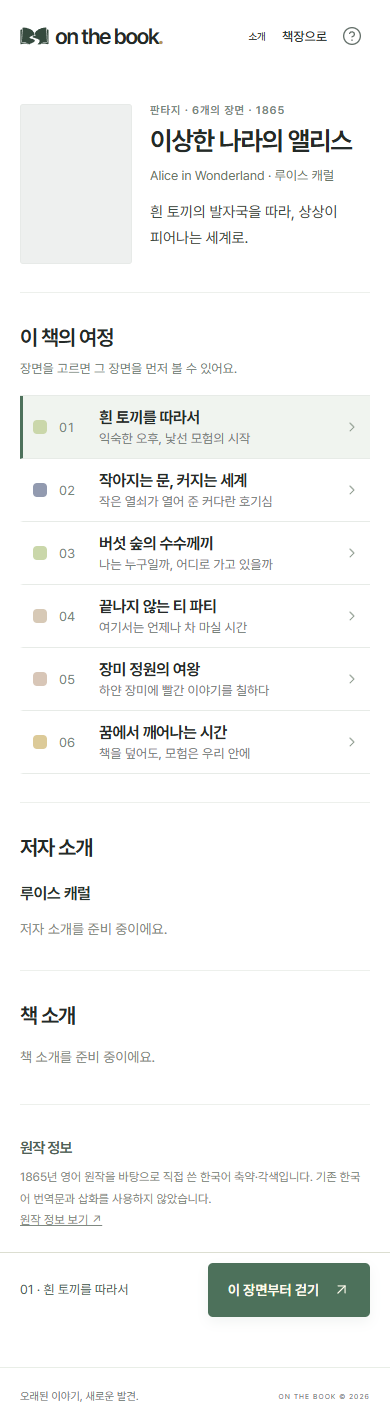
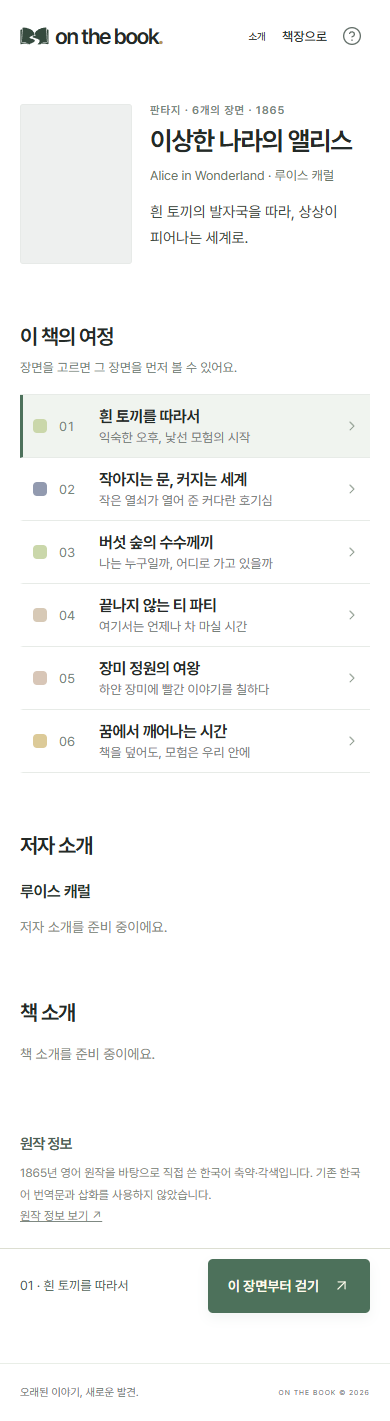
Drop the divider lines between detail sections
The hero, 이 책의 여정, 저자 소개, 책 소개 and 원작 정보 are now set
apart by the same space alone. The journey's row lines, the lines inside
the scene panel and the footer rule stay. The detail screenshots are
retaken.

diff --git a/client/detail.css b/client/detail.css
@@ -11,7 +11,8 @@
 .detail-copy h1 { margin: 0 0 12px; font-size: 36px; line-height: 1.2; word-break: keep-all; outline: none; }
 .detail-meta { margin: 0 0 12px; font-size: 15px; color: #6b7567; }
 .detail-description { max-width: 560px; margin: 0; font-size: 17px; line-height: 1.7; color: #3f4a44; word-break: keep-all; }
-.detail-section { padding-top: 36px; margin-top: 34px; border-top: 1px solid #edf0ec; }
+/* Sections in the left column are set apart by space alone, without divider lines. */
+.detail-section { padding-top: 36px; margin-top: 34px; }
 .detail-section .section-heading { margin-bottom: 16px; }
 /* 저자 소개·책 소개: studio prose. A single line break inside a paragraph is kept (pre-line); an empty field
    shows a muted 준비 중 line. */
@@ -40,7 +41,7 @@
 .theme-chip[data-theme="tea"], .scene-image[data-theme="tea"] { background: #d7c9b6; }
 .theme-chip[data-theme="rose"], .scene-image[data-theme="rose"] { background: #d8c6b7; }
 .theme-chip[data-theme="gold"], .scene-image[data-theme="gold"] { background: #dcca98; }
-.detail-source { padding-top: 34px; margin-top: 34px; border-top: 1px solid #edf0ec; }
+.detail-source { padding-top: 34px; margin-top: 34px; }
 .detail-source h2 { margin: 0 0 10px; font-size: 15px; color: #4f5f56; }
 .detail-source .source-note { padding: 0; border: 0; font-size: 12px !important; line-height: 1.8; color: #7f8982; }
 /* The scene panel follows the scroll; when it is taller than the screen it scrolls inside, with no visible scrollbar. */

diff --git a/docs/superpowers/specs/2026-09-28-detail-pages-design.md b/docs/superpowers/specs/2026-09-28-detail-pages-design.md
@@ -7,7 +7,7 @@
 - 처음에는 작품 상세(`?book=`)와 장면 상세(`?book=&scene=`) 두 페이지(두 뎁스)로 설계·구현했다(PR #3, 커밋 c60f7b6 까지). 같은 날 사용자가 밀리의서재 도서 상세처럼 **한 페이지 두 열**로 합치기로 결정했다. 왼쪽 열은 스크롤되는 작품 정보와 장면 목록, 오른쪽은 스크롤을 따라다니는 장면 패널이다.
 - 이 문서는 그 결정 이후의 최종 설계다. 두 뎁스 구현에서 바뀌는 점은 18절에 모았고, 구현 계획은 그 차이만 다룬다.
 - 그보다 앞서 정한 것(카드가 링크가 되는 홈 변경, 주소 규칙의 골격, `book-meta.js`·`detail.js` 분리, 표지·썸네일 표시)은 그대로 유효하다.
-- 2026-09-29 사용자 요청으로 두 가지를 더했다. 장면 패널과 시트의 스크롤바를 숨겼고(5절), '이 책의 여정' 다음에 저자 소개·책 소개 섹션과 이를 입력하는 관리자 칸을 넣었다(19절). 처음에는 빈 칸의 섹션을 숨겼으나, 같은 날 사용자 요청으로 섹션을 두고 '준비 중' 문구를 보이게 바꿨다.
+- 2026-09-29 사용자 요청으로 두 가지를 더했다. 장면 패널과 시트의 스크롤바를 숨겼고(5절), '이 책의 여정' 다음에 저자 소개·책 소개 섹션과 이를 입력하는 관리자 칸을 넣었다(19절). 처음에는 빈 칸의 섹션을 숨겼으나, 같은 날 사용자 요청으로 섹션을 두고 '준비 중' 문구를 보이게 바꿨다. 이어서 왼쪽 열 섹션 사이의 구분선을 모두 없앴다(6절).
 
 ## 1. 배경과 목표
 
@@ -113,6 +113,8 @@ main.detail-page.store-content#main-content[data-view="book"]
 ## 6. 왼쪽 열
 
 `client/detail.js` 의 `bookDetail({ book, chapter, library, progress, preview })` 가 페이지 전체(왼쪽 열 + 패널 + 하단 바 + 상태 문구)를 돌려준다. `chapter` 는 선택된 장면이다.
+
+왼쪽 열의 섹션(히어로, 이 책의 여정, 저자 소개, 책 소개, 원작 정보) 사이에는 구분선이 없고 여백으로만 나눈다. 섹션 위 여백은 70px(600px 이하 58px), 원작 정보 위는 68px 다. 여정 목록의 행 구분선, 장면 패널 안의 구분선, 푸터 위 선은 그대로 둔다(2026-09-29 사용자 요청).
 
 히어로 `.detail-hero`
 - 왼쪽: `bookCover(book)` 자리(`.catalog-cover.image-placeholder`, 2:2.85). 표지가 등록되어 있으면 그 `<img>`(`alt=""`), 없으면 `role="img" aria-label="표지 이미지 준비 중"` 인 빈 자리. 데스크톱 160px, 600px 이하 112px, 370px 이하에서는 위로 올라가 가운데 130px.
